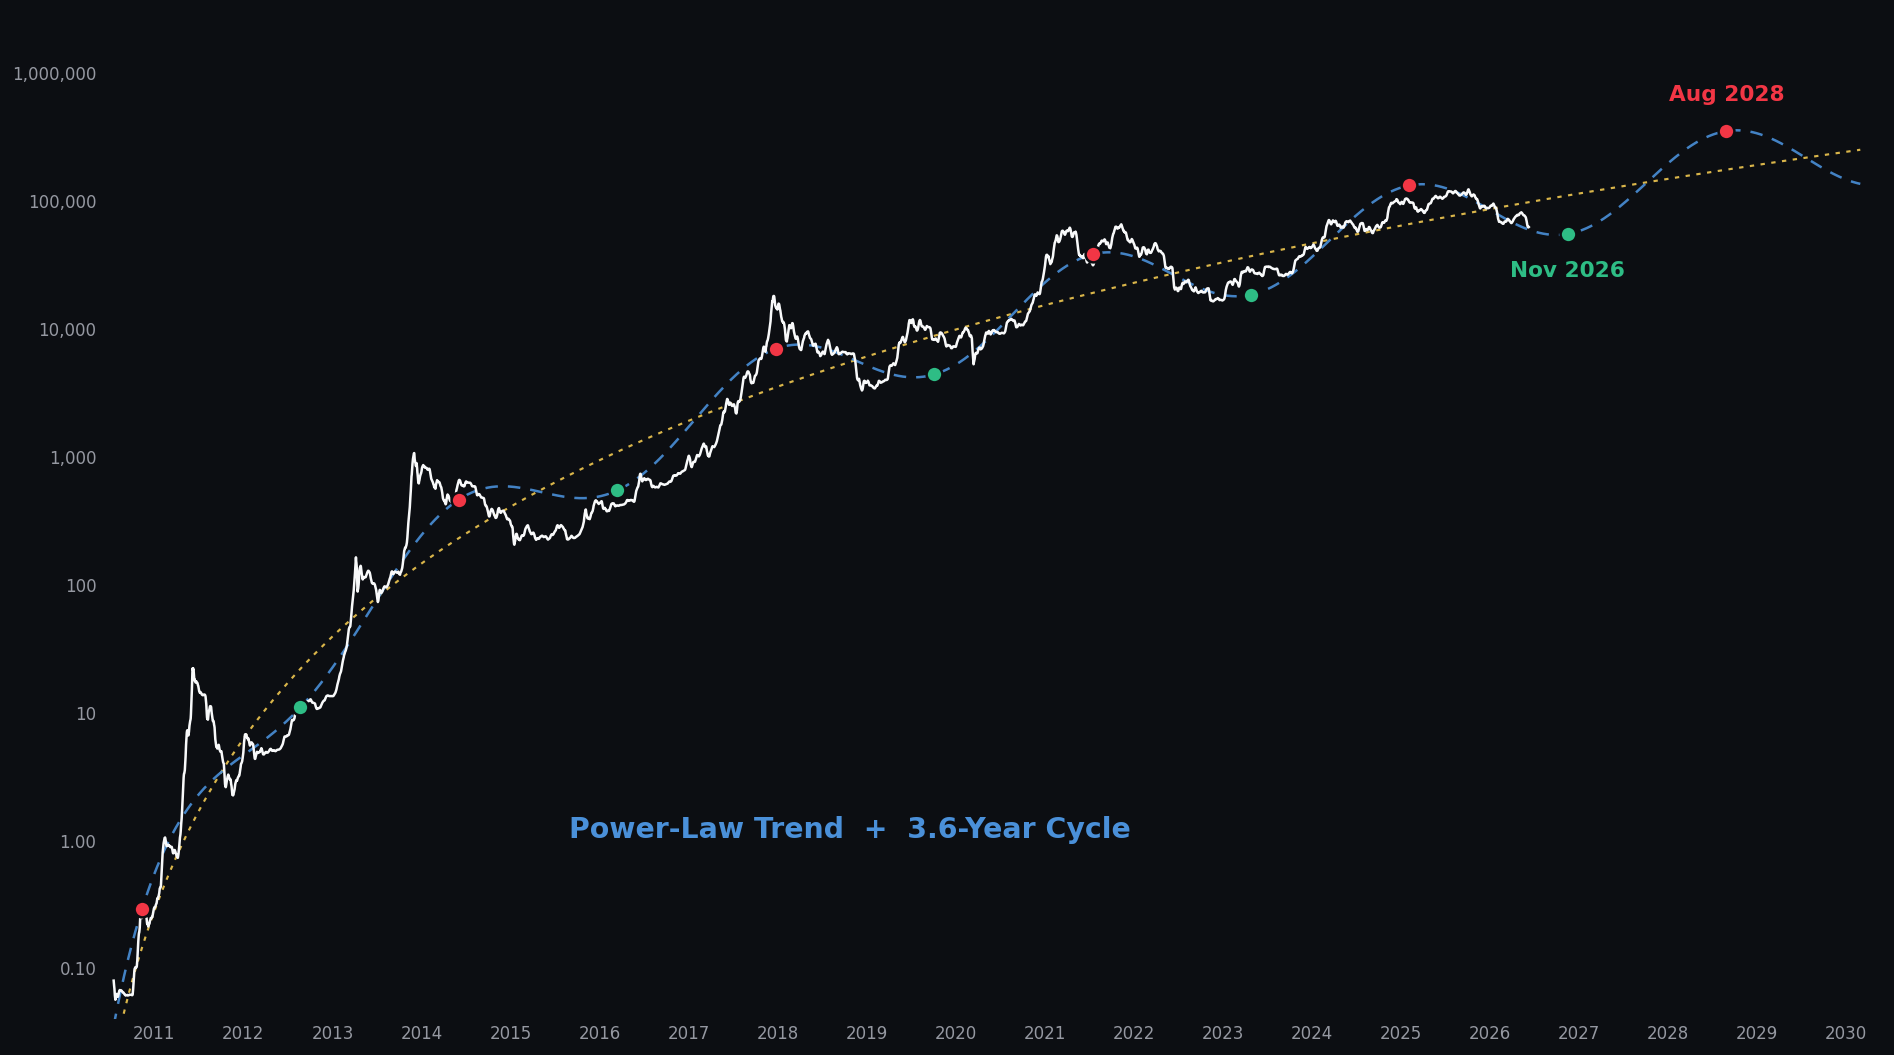
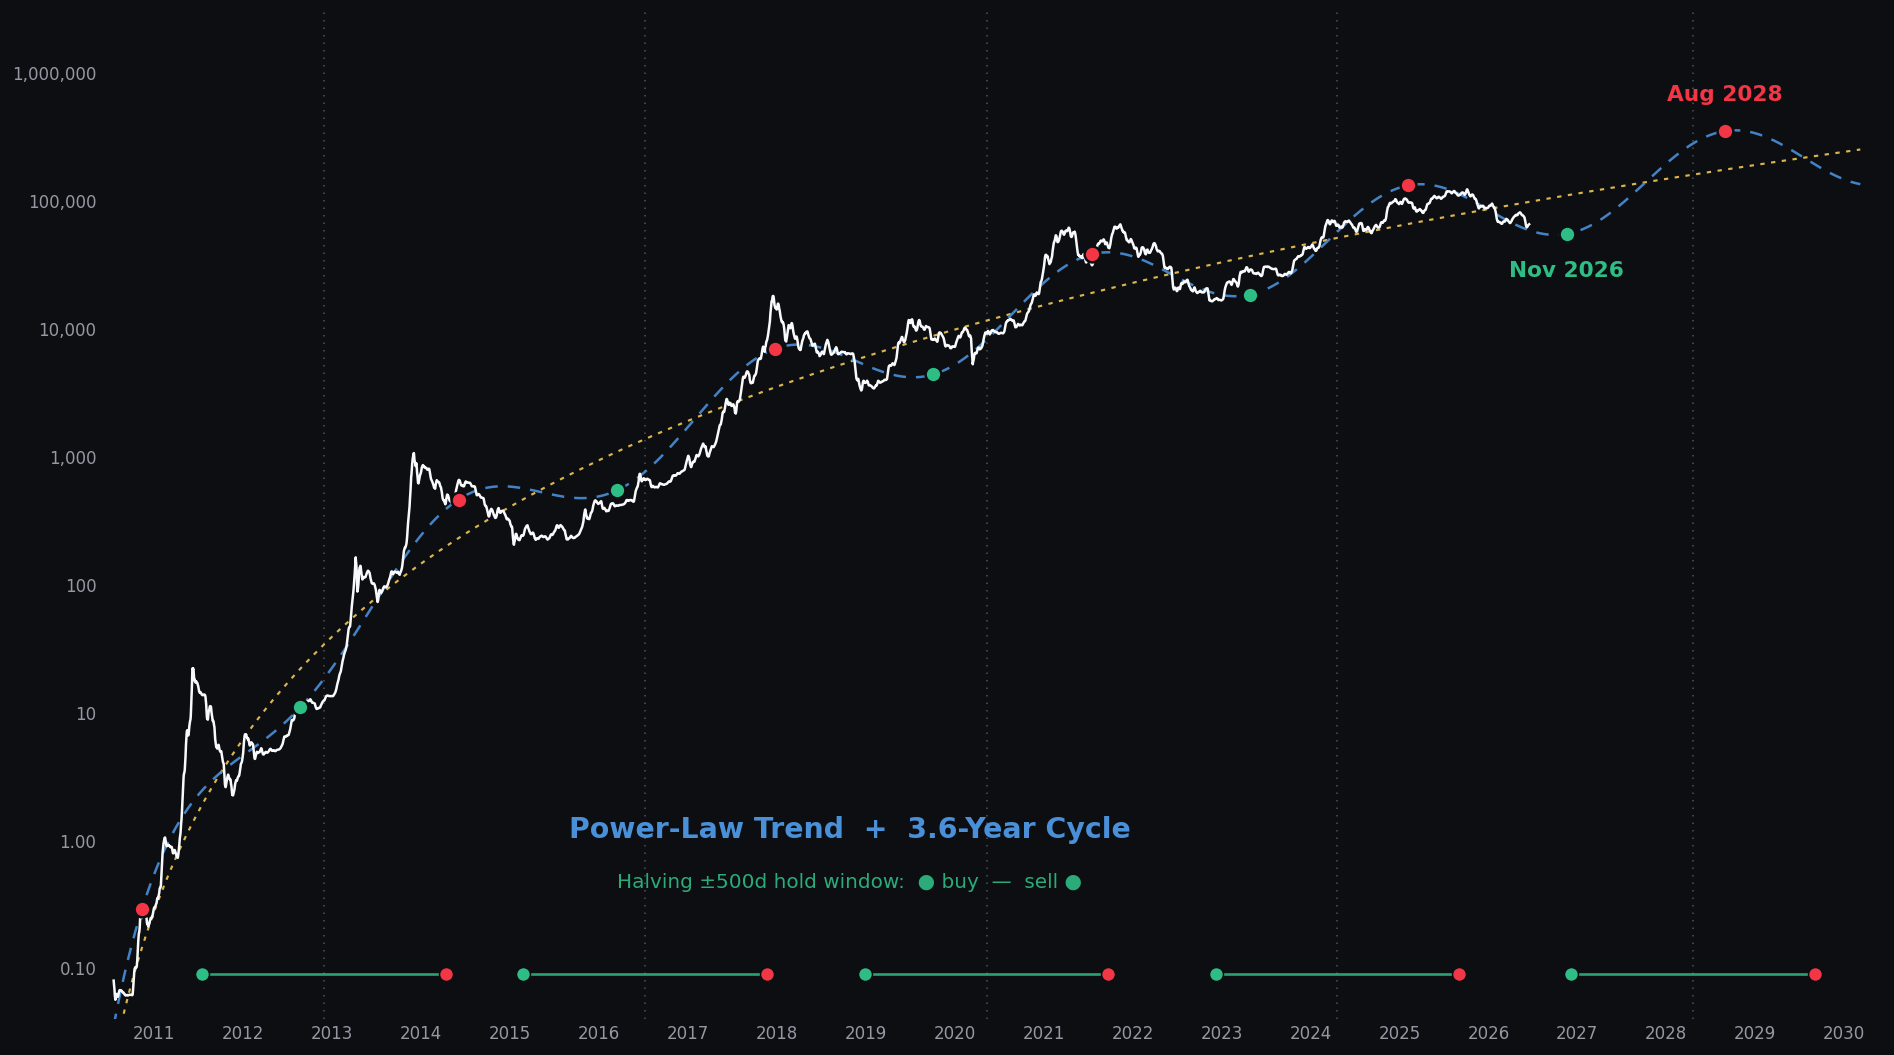
BTC cycle chart: add halving +/-500d rule overlay
Vertical line at each halving + buy(-500d)/sell(+500d) end points
joined by a horizontal connector (the HOLD window). Gaps between
windows = CASH. Adds halving_phase/next_buy/next_sell to the info
JSON and a phase line under the dashboard chart.

diff --git a/btc_powerlaw_chart.py b/btc_powerlaw_chart.py
@@ -31,6 +31,14 @@ GENESIS = pd.Timestamp("2009-01-03")
 BG = "#0c0e12"; AX = "#9598a1"
 C_PRICE = "#f8f9fa"; C_TREND = "#d9b54a"; C_MODEL = "#4a90d9"
 C_TOP = "#f23645"; C_LOW = "#2ebd85"
+C_HALV = "#8a8d93"; C_HOLD = "#2ebd85"
+
+# BTC halvings (last one projected ~4y out). The +/-500d rule: BUY 500d before a
+# halving, SELL 500d after -> each buy->sell span is a HOLD window, the gaps CASH.
+# Backtested edge comes from sitting OUT the post-peak crashes in those gaps.
+HALVINGS = [pd.Timestamp(d) for d in
+            ("2012-11-28", "2016-07-09", "2020-05-11", "2024-04-20", "2028-04-20")]
+HALV_OFFSET = pd.Timedelta(days=500)
 
 
 def fetch_coinmetrics():
@@ -114,6 +122,35 @@ t_today = df["t"].iloc[-1]
 
 fig, ax = plt.subplots(figsize=(16, 9), facecolor=BG)
 ax.set_facecolor(BG)
+
+# --- Halving +/-500d rule overlay (drawn first so it sits behind the curves) ---
+# For each halving: a vertical line at the halving, plus the buy(-500d) and
+# sell(+500d) points joined by a horizontal connector = the HOLD window.
+chart_start = pd.Timestamp("2010-06-01")
+chart_end = today + pd.Timedelta(days=horizon_days + 90)
+Y_RAIL = 0.09  # baseline (log y) where the buy->sell brackets live
+halving_phase, next_buy, next_sell = "CASH", None, None
+for h in HALVINGS:
+    buy, sell = h - HALV_OFFSET, h + HALV_OFFSET
+    ax.axvline(h, color=C_HALV, lw=0.9, ls=(0, (1, 4)), alpha=0.55, zorder=1)
+    if buy <= today <= sell:
+        halving_phase = "HOLD"
+    if buy > today and next_buy is None:
+        next_buy = buy
+    if sell > today and next_sell is None and buy <= today:
+        next_sell = sell
+    # horizontal connector + the two end points (buy green, sell red)
+    lo, hi = max(buy, chart_start), min(sell, chart_end)
+    if lo < hi:
+        ax.plot([lo, hi], [Y_RAIL, Y_RAIL], color=C_HOLD, lw=1.6,
+                alpha=0.85, zorder=5, solid_capstyle="round")
+    if chart_start <= buy <= chart_end:
+        ax.scatter([buy], [Y_RAIL], color=C_LOW, s=70, zorder=6,
+                   edgecolors=BG, linewidths=0.9)
+    if chart_start <= sell <= chart_end:
+        ax.scatter([sell], [Y_RAIL], color=C_TOP, s=70, zorder=6,
+                   edgecolors=BG, linewidths=0.9)
+
 ax.plot(all_dates, 10 ** m_pl(t_all), color=C_TREND, lw=1.3, ls=(0, (2, 3)), zorder=3)
 ax.plot(all_dates, 10 ** m_full(t_all), color=C_MODEL, lw=1.5, ls=(0, (5, 4)),
         alpha=0.9, zorder=3)
@@ -142,6 +179,8 @@ for kind, t_es, col, dy, va in [("trough", troughs, C_LOW, -16, "top"),
 
 ax.text(0.42, 0.18, f"Power-Law Trend  +  {T / 365.25:.1f}-Year Cycle",
         transform=ax.transAxes, fontsize=17, color=C_MODEL, fontweight="bold", ha="center")
+ax.text(0.42, 0.13, "Halving ±500d hold window:  ● buy  —  sell ●",
+        transform=ax.transAxes, fontsize=12, color=C_HOLD, ha="center", alpha=0.9)
 
 ax.set_yscale("log")
 ax.set_xlim(pd.Timestamp("2010-06-01"), today + pd.Timedelta(days=horizon_days + 90))
@@ -189,6 +228,9 @@ info = {
     "r2": round(float(r2), 4),
     "next_trough": info_extrema.get("trough"),
     "next_top": info_extrema.get("top"),
+    "halving_phase": halving_phase,
+    "halving_next_buy": str(next_buy.date()) if next_buy is not None else None,
+    "halving_next_sell": str(next_sell.date()) if next_sell is not None else None,
 }
 with open(os.path.join(DIR, "btc_powerlaw_info.json"), "w") as f:
     json.dump(info, f, indent=2)

diff --git a/eqm_dashboard.py b/eqm_dashboard.py
@@ -339,8 +339,19 @@ def build_html(all_results, pl_info=None):
     <div style="font-size:13px;color:#888;margin-top:6px;">BTC <span style="color:{tdev_color};font-weight:700;">{tdev:+.0%}</span> vs power-law trend{thr_part}</div>
   </div>"""
 
+        # Halving ±500d rule phase line (buy 500d before, sell 500d after a halving)
+        halv_html = ''
+        hphase = pl_info.get('halving_phase')
+        if hphase:
+            hcolor = '#2ebd85' if hphase == 'HOLD' else '#f23645'
+            nb, ns = pl_info.get('halving_next_buy'), pl_info.get('halving_next_sell')
+            nxt = f"next buy {nb}" if hphase == 'CASH' and nb else (f"next sell {ns}" if ns else "")
+            nxt_part = f" &middot; <span style='color:#888;'>{nxt}</span>" if nxt else ""
+            halv_html = (f"<div style=\"font-size:13px;color:#888;text-align:center;margin-top:8px;\">"
+                         f"Halving &plusmn;500d rule: <span style=\"color:{hcolor};font-weight:700;\">{hphase}</span>{nxt_part}</div>")
+
         cycle_section = f"""{banana_html}
-  <img src="btc_powerlaw.png" alt="BTC Power-Law + Cycle" style="width:100%;max-width:1500px;display:block;margin:0 auto;border:1px solid #1a1a2e;border-radius:8px;">
+  <img src="btc_powerlaw.png" alt="BTC Power-Law + Cycle" style="width:100%;max-width:1500px;display:block;margin:0 auto;border:1px solid #1a1a2e;border-radius:8px;">{halv_html}
   <div style="font-size:11px;color:#555;margin-top:10px;text-align:center;">refit daily &mdash; context model, not a trade signal &mdash; {pl_info['data_date']}</div>"""
     else:
         cycle_section = ''
